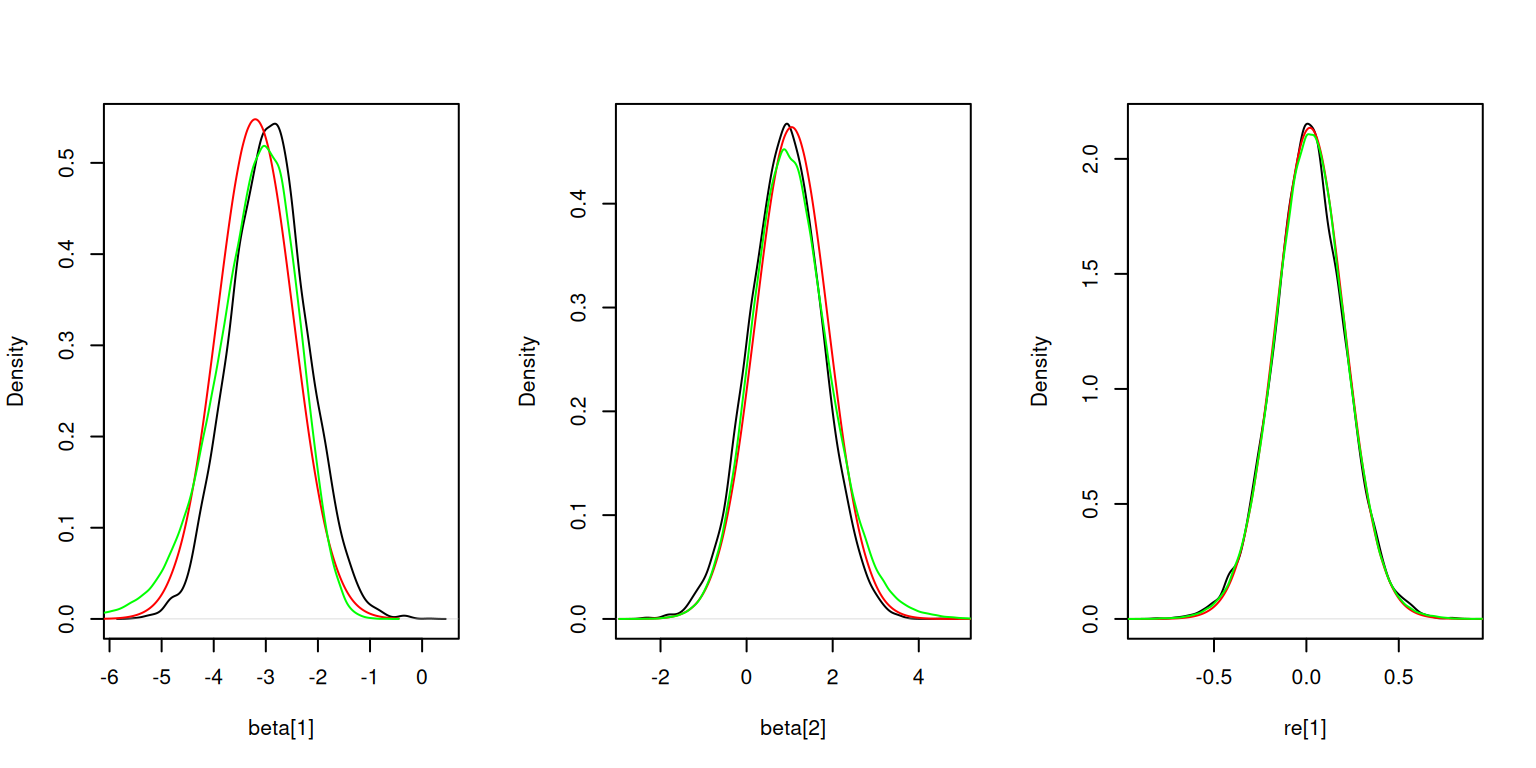
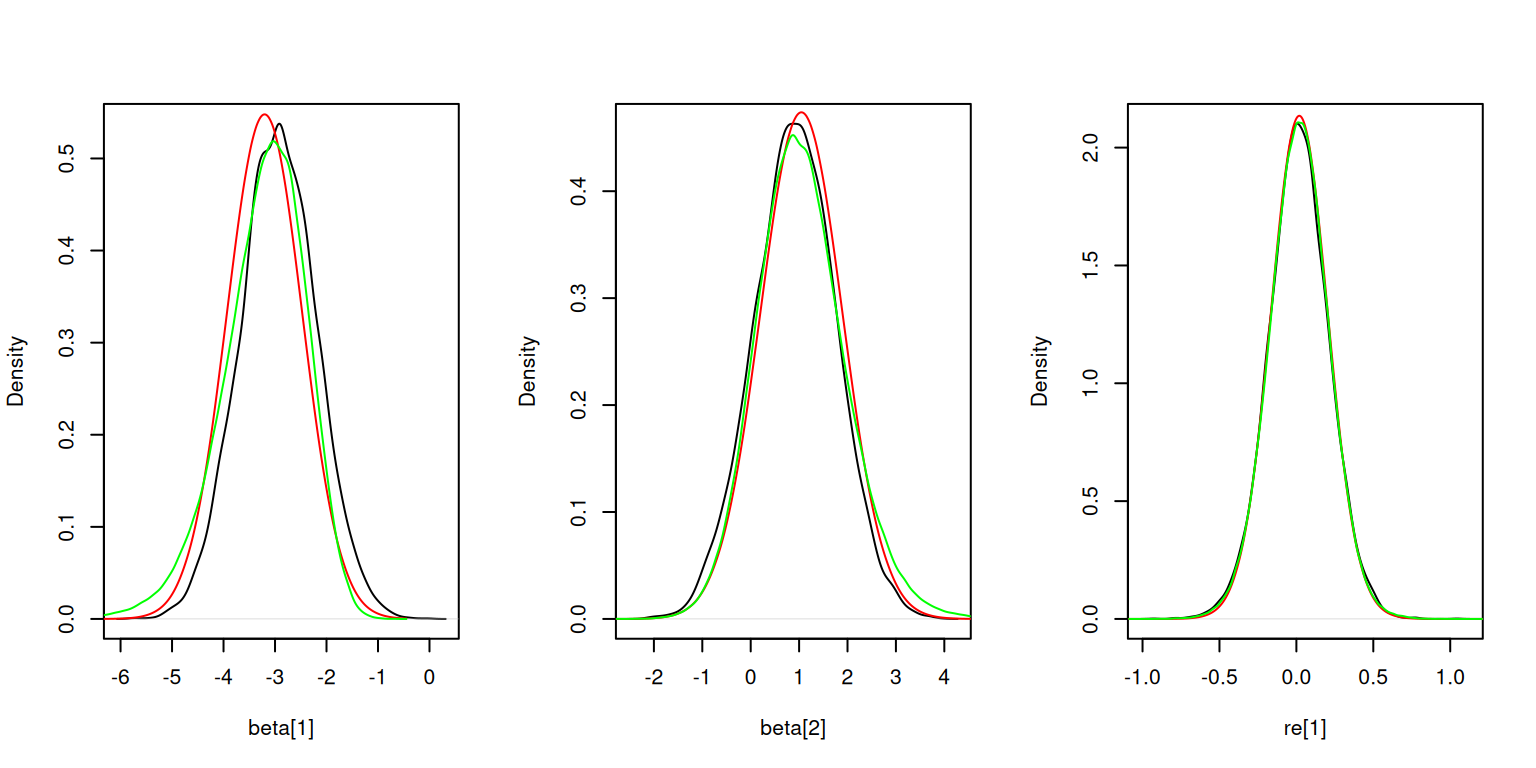
Rerun with nimble 1.4.1.

diff --git a/vignettes/Quadrature.html b/vignettes/Quadrature.html
@@ -358,7 +358,7 @@ u_{j} \sim \text{Normal}(0, \sigma^2)
 </div>
 <div class="sourceCode cell-code" id="cb24"><pre class="sourceCode r code-with-copy"><code class="sourceCode r"><span id="cb24-1"><a href="#cb24-1" aria-hidden="true" tabindex="-1"></a><span class="fu">logit</span>(nimble_params[<span class="st">"p"</span>,<span class="dv">1</span>])   <span class="co"># NIMBLE</span></span></code><button title="Copy to Clipboard" class="code-copy-button"><i class="bi"></i></button></pre></div>
 <div class="cell-output cell-output-stdout">
-<pre><code>[1] -0.9338251</code></pre>
+<pre><code>[1] -0.9338527</code></pre>
 </div>
 <div class="sourceCode cell-code" id="cb26"><pre class="sourceCode r code-with-copy"><code class="sourceCode r"><span id="cb26-1"><a href="#cb26-1" aria-hidden="true" tabindex="-1"></a><span class="co"># tau_re</span></span>
 <span id="cb26-2"><a href="#cb26-2" aria-hidden="true" tabindex="-1"></a><span class="fu">exp</span>(<span class="sc">-</span><span class="dv">2</span><span class="sc">*</span>fit_tmb<span class="sc">$</span>fit<span class="sc">$</span>par[<span class="st">"theta"</span>])  <span class="co"># TMB</span></span></code><button title="Copy to Clipboard" class="code-copy-button"><i class="bi"></i></button></pre></div>
@@ -368,7 +368,7 @@ u_{j} \sim \text{Normal}(0, \sigma^2)
 </div>
 <div class="sourceCode cell-code" id="cb28"><pre class="sourceCode r code-with-copy"><code class="sourceCode r"><span id="cb28-1"><a href="#cb28-1" aria-hidden="true" tabindex="-1"></a>nimble_params[<span class="st">"tau_re"</span>,<span class="dv">1</span>]         <span class="co"># NIMBLE</span></span></code><button title="Copy to Clipboard" class="code-copy-button"><i class="bi"></i></button></pre></div>
 <div class="cell-output cell-output-stdout">
-<pre><code>[1] 3.648097</code></pre>
+<pre><code>[1] 3.646083</code></pre>
 </div>
 </div>
 <p>It can be helpful to check the Laplace approximation at the MLE by increasing the number of quadrature nodes using AGHQ. If the likelihood is very different when increasing the number of quadrature nodes, that indicates that Laplace was not a good approximation to the marginal likelihood. In this particular case, since we have have conditionally independent random effects (and therefore a set of 1-dimensional AGHQ approximations), increasing the number of quadrature nodes will be relatively quick, but in other cases it can be very slow.</p>
@@ -385,7 +385,7 @@ u_{j} \sim \text{Normal}(0, \sigma^2)
 <div class="sourceCode cell-code" id="cb34"><pre class="sourceCode r code-with-copy"><code class="sourceCode r"><span id="cb34-1"><a href="#cb34-1" aria-hidden="true" tabindex="-1"></a>claplace<span class="sc">$</span><span class="fu">updateSettings</span>(<span class="at">nQuad =</span> <span class="dv">11</span>)</span>
 <span id="cb34-2"><a href="#cb34-2" aria-hidden="true" tabindex="-1"></a>claplace<span class="sc">$</span><span class="fu">calcLogLik</span>(nimble_fit<span class="sc">$</span>summary<span class="sc">$</span>params[, <span class="st">'estimate'</span>], <span class="at">trans =</span> <span class="cn">FALSE</span>)</span></code><button title="Copy to Clipboard" class="code-copy-button"><i class="bi"></i></button></pre></div>
 <div class="cell-output cell-output-stdout">
-<pre><code>[1] -881.8749</code></pre>
+<pre><code>[1] -881.8748</code></pre>
 </div>
 </div>
 <section id="finding-the-posterior-mode" class="level3">
@@ -398,22 +398,22 @@ u_{j} \sim \text{Normal}(0, \sigma^2)
 <span id="cb36-4"><a href="#cb36-4" aria-hidden="true" tabindex="-1"></a>summary_mode<span class="sc">$</span>params</span></code><button title="Copy to Clipboard" class="code-copy-button"><i class="bi"></i></button></pre></div>
 <div class="cell-output cell-output-stdout">
 <pre><code>           estimate   stdError
-beta[1]  -2.9480593 0.73037698
-beta[2]   0.9057569 0.84578328
-beta[3]   2.3137081 0.75535597
-beta[4]   0.6821166 0.87486699
-beta[5]   1.6941718 0.77843578
-beta[6]   2.5049842 0.74244105
-beta[7]   2.5285631 0.74354887
-beta[8]   3.9088307 0.74894207
-beta[9]  -2.2879169 0.88553791
-beta[10] -2.1261196 0.76825335
-beta[11] -1.2050890 0.90116109
-beta[12] -1.0299955 0.78868138
-beta[13] -1.9337187 0.75298920
-beta[14] -2.5626526 0.75945010
-tau_re    4.5731703 2.18471379
-p         0.2833263 0.03245053</code></pre>
+beta[1]  -2.9479288 0.73031304
+beta[2]   0.9054848 0.84572045
+beta[3]   2.3135706 0.75528120
+beta[4]   0.6815960 0.87484058
+beta[5]   1.6938112 0.77837017
+beta[6]   2.5046664 0.74236547
+beta[7]   2.5283724 0.74347235
+beta[8]   3.9086414 0.74890318
+beta[9]  -2.2874463 0.88547589
+beta[10] -2.1257575 0.76817992
+beta[11] -1.2047056 0.90113506
+beta[12] -1.0296436 0.78861657
+beta[13] -1.9333930 0.75291515
+beta[14] -2.5623275 0.75937369
+tau_re    4.5695310 2.18287788
+p         0.2833335 0.03244996</code></pre>
 </div>
 </div>
 <p>One can also “manually” use the <code>optimize</code> method of a built AGHQ or Laplace object to either penalize the likelihood or find the posterior mode. To simply penalize the likelihood using the prior distributions on parameters, one sets <code>includePrior = TRUE</code>. If the posterior mode is of interest, then one must also include the Jacobian transformation by setting <code>includeJacobian = TRUE</code> (this is what <code>findMAP</code> does).</p>
@@ -461,9 +461,9 @@ p         0.2833263 0.03245053</code></pre>
 <div class="sourceCode cell-code" id="cb45"><pre class="sourceCode r code-with-copy"><code class="sourceCode r"><span id="cb45-1"><a href="#cb45-1" aria-hidden="true" tabindex="-1"></a>result</span></code><button title="Copy to Clipboard" class="code-copy-button"><i class="bi"></i></button></pre></div>
 <div class="cell-output cell-output-stdout">
 <pre><code>Model (hyper)parameters: 
-            mean         sd      2.5%      25%       50%       75%     97.5%
-p      0.2829532 0.03213736 0.2223162 0.260750 0.2822413 0.3042659 0.3480408
-tau_re 4.2832293 2.21981565 1.4690113 2.737785 3.7993333 5.2801515 9.9047111
+            mean         sd      2.5%       25%       50%       75%     97.5%
+p      0.2829532 0.03213736 0.2223162 0.2607501 0.2822413 0.3042659 0.3480407
+tau_re 4.2832290 2.21981483 1.4690108 2.7377846 3.7993335 5.2801514 9.9047077
 
 Marginal log-likelihood (asymmetric Gaussian approximation): -957.392(*)
   (*) Invalid for improper priors and may not be useful for non-informative priors.</code></pre>
@@ -525,9 +525,9 @@ Marginal log-likelihood (asymmetric Gaussian approximation): -957.392(*)
 <div class="sourceCode cell-code" id="cb51"><pre class="sourceCode r code-with-copy"><code class="sourceCode r"><span id="cb51-1"><a href="#cb51-1" aria-hidden="true" tabindex="-1"></a>result  <span class="co"># Original (integration-free) parameter estimates</span></span></code><button title="Copy to Clipboard" class="code-copy-button"><i class="bi"></i></button></pre></div>
 <div class="cell-output cell-output-stdout">
 <pre><code>Model (hyper)parameters: 
-            mean         sd      2.5%      25%       50%       75%     97.5%
-p      0.2829532 0.03213736 0.2223162 0.260750 0.2822413 0.3042659 0.3480408
-tau_re 4.2832293 2.21981565 1.4690113 2.737785 3.7993333 5.2801515 9.9047111
+            mean         sd      2.5%       25%       50%       75%     97.5%
+p      0.2829532 0.03213736 0.2223162 0.2607501 0.2822413 0.3042659 0.3480407
+tau_re 4.2832290 2.21981483 1.4690108 2.7377846 3.7993335 5.2801514 9.9047077
 
 Marginal log-likelihood (asymmetric Gaussian approximation): -957.392(*)
 Marginal log-likelihood (grid-based): -957.3845(*)
@@ -548,7 +548,7 @@ Marginal log-likelihood (grid-based): -957.3845(*)
 <pre><code>Model (hyper)parameters: 
             mean         sd     2.5%       25%       50%       75%     97.5%
 p      0.2829161 0.03233042 0.220414 0.2608876 0.2826332 0.3046184  0.347118
-tau_re 4.3240215 2.34440783 1.450420 2.7365618 3.8040399 5.3028558 10.249151
+tau_re 4.3240215 2.34440784 1.450420 2.7365618 3.8040399 5.3028558 10.249151
 
 Marginal log-likelihood (asymmetric Gaussian approximation): -957.392(*)
 Marginal log-likelihood (grid-based): -957.3845(*)
@@ -716,7 +716,7 @@ Calculating inner AGHQ/Laplace approximation at 13 parameter (outer)
 
 <div id="quarto-appendix" class="default"><section class="quarto-appendix-contents" role="doc-bibliography" id="quarto-bibliography"><h2 class="anchored quarto-appendix-heading">References</h2><div id="refs" class="references csl-bib-body hanging-indent" data-entry-spacing="0" role="list">
 <div id="ref-howes_pca" class="csl-entry" role="listitem">
-Howes, Adam, Alex Stringer, Seth R. Flaxman, and Jeffrey W. Imai–Eaton. 2026. <span>“Fast Approximate Bayesian Inference of HIV Indicators Using PCA Adaptive Gauss-Hermite Quadrature.”</span> <em>Journal of Theoretical Biology</em> 618: 112290. https://doi.org/<a href="https://doi.org/10.1016/j.jtbi.2025.112290">https://doi.org/10.1016/j.jtbi.2025.112290</a>.
+Howes, Adam, Alex Stringer, Seth R. Flaxman, and Jeffrey W. Imai–Eaton. 2026. <span>“Fast Approximate Bayesian Inference of HIV Indicators Using PCA Adaptive Gauss-Hermite Quadrature.”</span> <em>Journal of Theoretical Biology</em> 618: 112290. <a href="https://doi.org/10.1016/j.jtbi.2025.112290">https://doi.org/10.1016/j.jtbi.2025.112290</a>.
 </div>
 <div id="ref-jackel2005note" class="csl-entry" role="listitem">
 Jäckel, Peter. 2005. <span>“A Note on Multivariate Gauss-Hermite Quadrature.”</span> <em>London: ABN-Amro. Re</em>.
